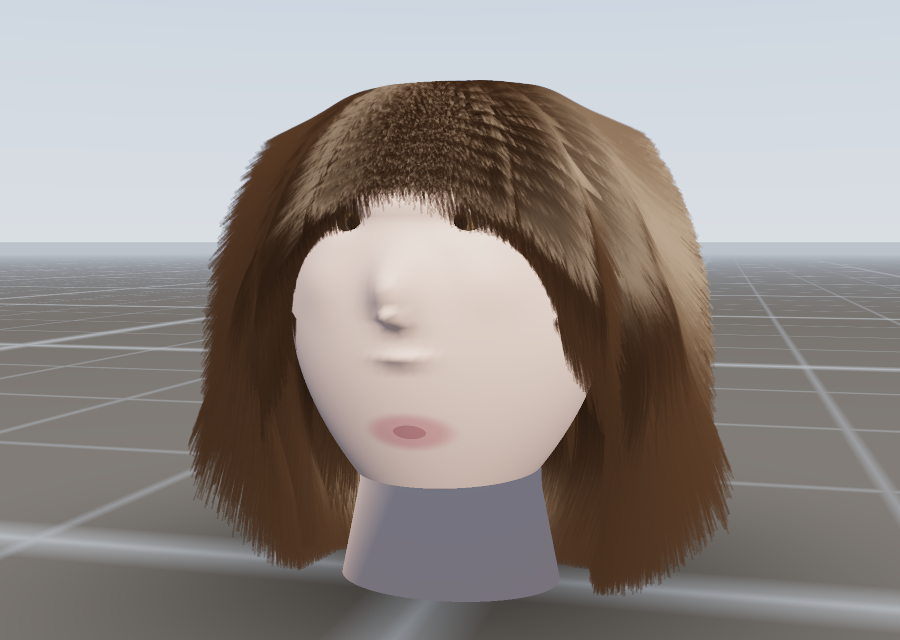
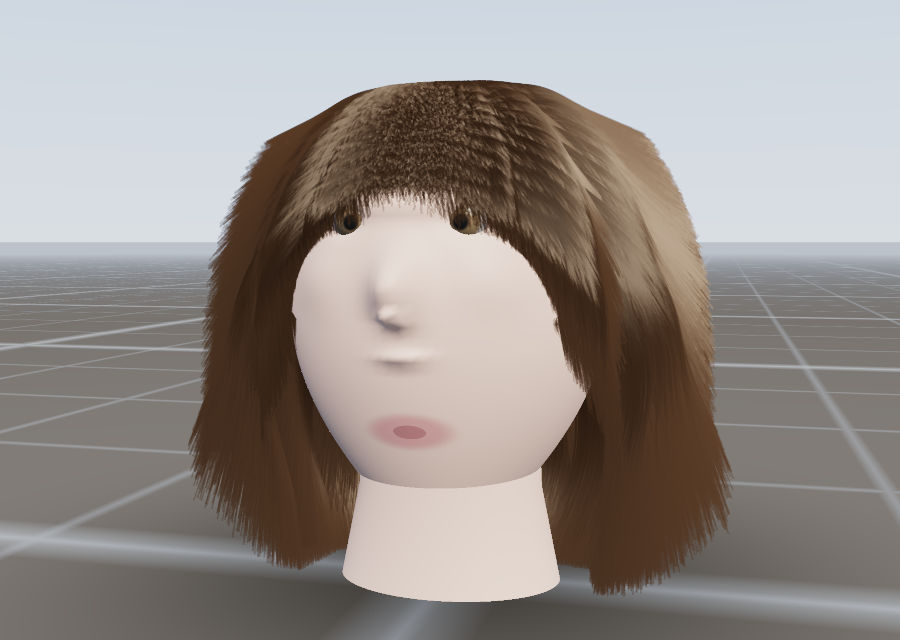
renderer: two-sided face normal fix, visible eyes, eyebrows, skin-toned neck
- a normal facing away from the camera is flipped for the opaque pass: procedurally
  generated tubes (the neck) and the teapot spout/handle are not guaranteed to be wound
  outward, which previously shaded them as flat gray silhouettes
- eyeballs sit closer to the socket surface so the iris shows under the fringe
- soft eyebrow bands and an elliptical mouth with a crease
- refreshed README renders and the Figure 10 contact sheet

diff --git a/src/render/software_renderer.cpp b/src/render/software_renderer.cpp
@@ -246,9 +246,13 @@ void SoftwareRenderer::render(const Scene& scene, const Camera& camera,
                     const float z = pr[0].z * b0 + pr[1].z * b1 + pr[2].z * b2;
                     Sample& s = buffer_[static_cast<size_t>(y) * bw_ + x];
                     if (z >= s.depth) continue;
-                    const Vec3 nrm = normalize(n[0] * b0 + n[1] * b1 + n[2] * b2);
+                    Vec3 nrm = normalize(n[0] * b0 + n[1] * b1 + n[2] * b2);
                     const Vec3 pos = p[0] * b0 + p[1] * b1 + p[2] * b2;
                     const Vec3 V = normalize(camPos - pos);
+                    // Two-sided shading: procedurally generated tubes (the neck) and the
+                    // teapot's spout/handle are not guaranteed to be wound outward, and an
+                    // inward normal makes the surface read as an unlit gray silhouette.
+                    if (dot(nrm, V) < 0.0f) nrm = -nrm;
                     Vec3 alb = baseAlbedo;
                     const float ndl = saturate(dot(nrm, scene.sunDirection));
                     float wrap = ndl;
@@ -263,6 +267,16 @@ void SoftwareRenderer::render(const Scene& scene, const Camera& camera,
                     } else if (isSkin) {
                         alb = Vec3(0.66f, 0.47f, 0.39f);
                         wrap = saturate((dot(nrm, scene.sunDirection) + 0.40f) / 1.40f);
+                        // Eyebrows: a soft band just above each eye socket.
+                        {
+                            const float bx = (std::fabs(pos.x) - 0.0272f) / 0.0185f;
+                            const float by = (pos.y - 0.0835f) / 0.0052f;
+                            const float b2 = bx * bx + by * by;
+                            if (nrm.z > 0.25f && b2 < 1.0f) {
+                                const float t = smoothstepf(0.15f, 1.0f, b2);
+                                alb = lerp(alb, Vec3(0.20f, 0.13f, 0.09f), (1.0f - t) * 0.85f);
+                            }
+                        }
                         // Lips: a soft ellipse rather than a rectangle, with a darker
                         // crease between the upper and lower lip.
                         const float mx = pos.x / 0.0245f;

diff --git a/src/core/assets.cpp b/src/core/assets.cpp
@@ -51,8 +51,8 @@ void HeadModel::buildEyes() {
         // Seated in the eye socket: the socket is 7.5 mm deep, so an eyeball of radius
         // 11.5 mm placed 6 mm behind the (deformed) surface leaves the cornea proud of the
         // socket without looking like a bug eye.
-        const Vec3 c = surfacePoint(theta, phi) - surfaceNormal(theta, phi) * 0.0060f;
-        const float r = 0.0115f;
+        const Vec3 c = surfacePoint(theta, phi) - surfaceNormal(theta, phi) * 0.0042f;
+        const float r = 0.0122f;
         const int nu = 20, nv = 14;
         const uint32_t base = static_cast<uint32_t>(eyes_.positions.size());
         for (int j = 0; j <= nv; ++j) {
